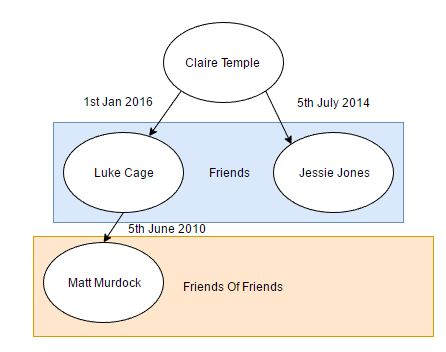
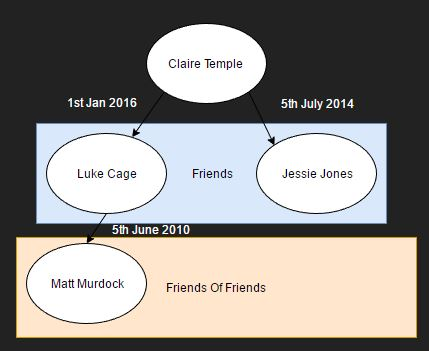
Switch to png images

diff --git a/_posts/2017-06-12-sql-server-2017-graph-data.md b/_posts/2017-06-12-sql-server-2017-graph-data.md
@@ -58,7 +58,7 @@ VALUES
 
 In this case we have direct friend links from Claire to Luke and Jessie, then through the link with Luke we have a friend of friend relationship to Matt.
 
-![Friend Graph]({{site.url}}/content/images/2017-graph/graph.JPG)
+![Friend Graph]({{site.url}}/content/images/2017-graph/graph.PNG)
 
 In this image the circles represent our Node table and the lines the Edge table.
 
@@ -144,7 +144,7 @@ VALUES
 
 So our graph now looks a bit like this...
 
-![Graph with edge data]({{site.url}}/content/images/2017-graph/graph-edge-dates.JPG)
+![Graph with edge data]({{site.url}}/content/images/2017-graph/graph-edge-dates.PNG)
 
 We can then query all Claire's friends made before 2016 by just adding a where filter on that date column like a normal SQL query..
 
